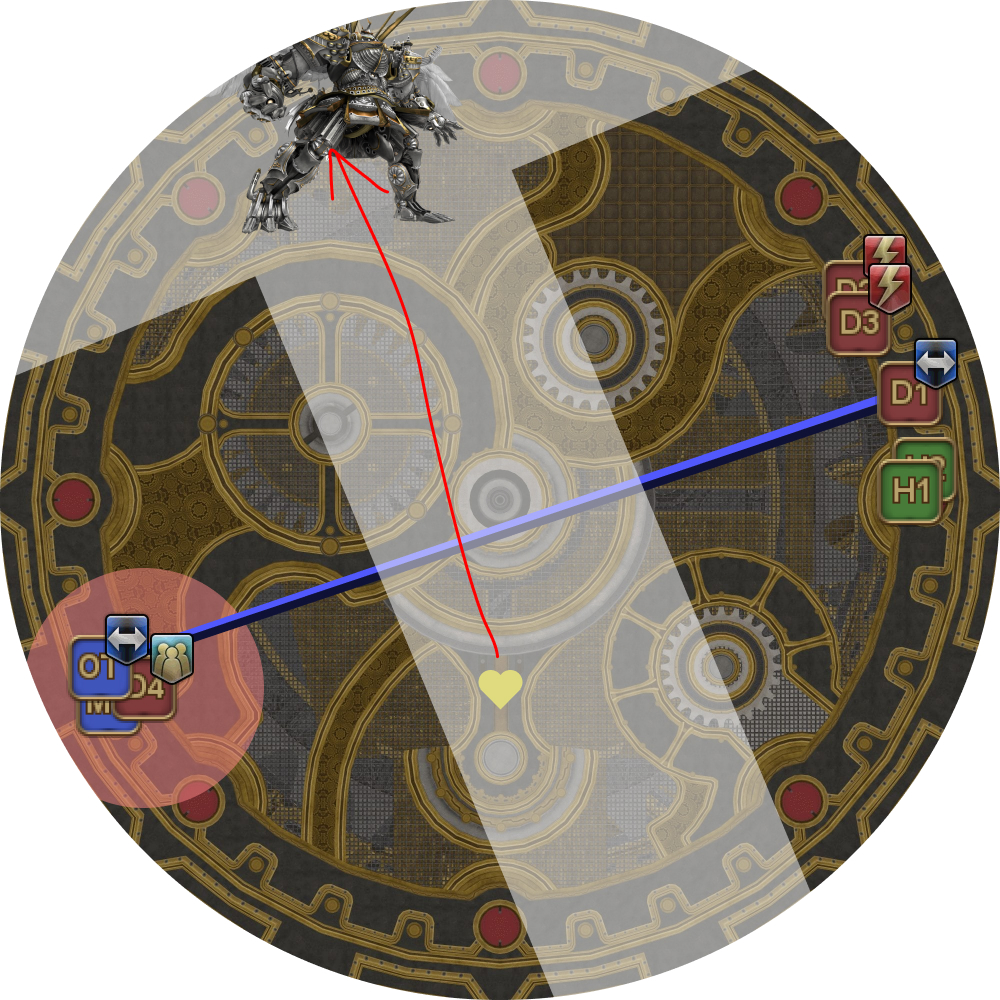
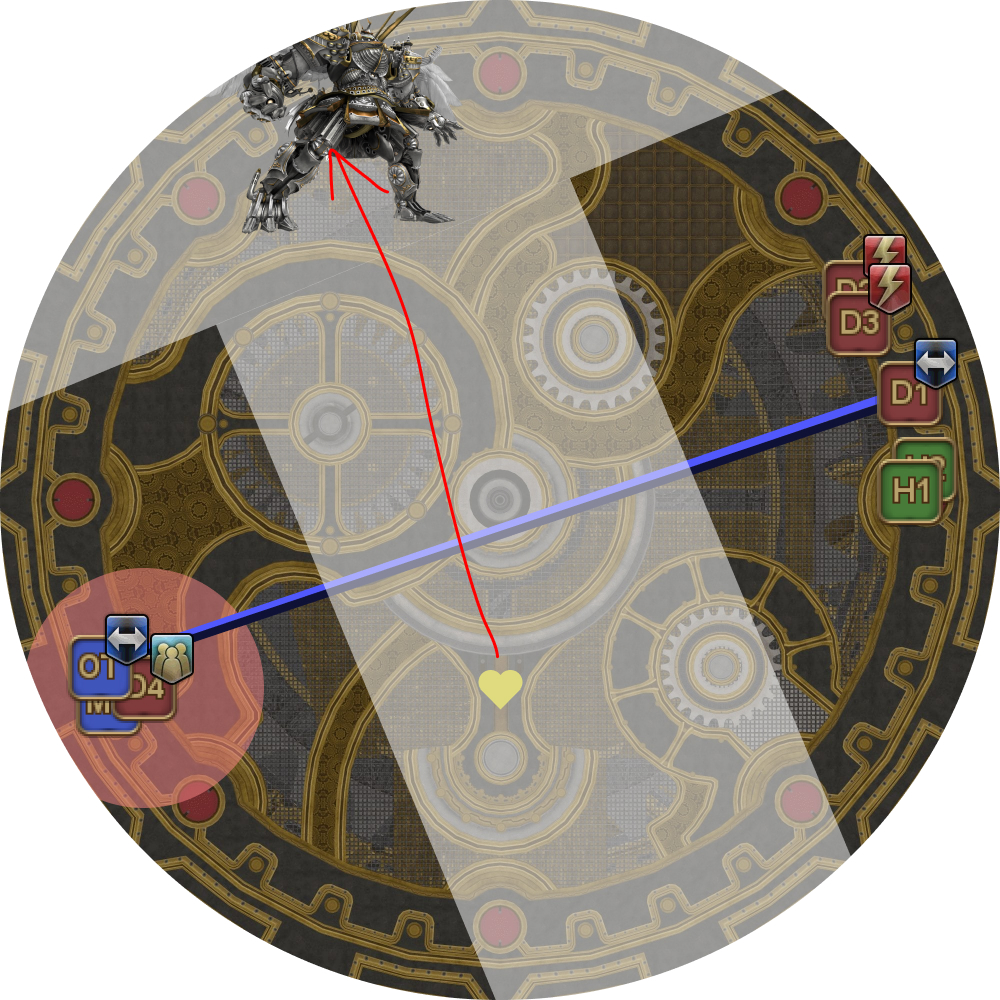
Adding Perfect Alex

Changed region(s): [[0.0, 0.279, 0.558, 1.0], [0.496, 0.062, 0.868, 0.899]]

diff --git a/ultimates/tea/en/05_perfect_alex.md b/ultimates/tea/en/05_perfect_alex.md
@@ -1,0 +1,53 @@
+## Perfect Alexander
+
+
+<table>
+  <tr>
+    <td><b>Forced March:</b><ul><li><b>Light Beacon:</b> West</li><li><b>Dark Beacon:</b> East</li><li><b>Everyone else:</b> Just west of the Dark Beacon</li></ul></td>
+	<td><img src="../images/perfect_alex/forced_march_01.jpg"></td>
+  </tr>
+  <tr>
+    <td><b>Stacks:</b><ul><li><b>West:</b> H1 > D3 > D1 > MT</li><li><b>East:</b> H2 > D4 > D2 > ST</li></ul><em>(Essentially, fix healer positions)</em></td>
+	<td><img src="../images/perfect_alex/forced_march_02.jpg"></td>
+  </tr>
+</table>
+
+## Fate Calibration Alpha
+
+<table>
+  <tr>
+    <td><b>Fate Calibration Alpha:</b><ul><li><b>Shared Sentence:</b> Left</li><li><b>Nothing:</b> Left</li><li><b>Aggravated Assault:</b> Right</li></ul></td>
+	<td><img src="../images/perfect_alex/fate_calibration_alpha.jpg"></td>
+  </tr>
+</table>
+
+After Fate Calibration Alpha, Perfect Alex will cast the first Ordained Capital Punishment, which will be shared between both tanks (ST Provokes to take hate).
+
+## Fate Calibration Beta
+
+<table>
+  <tr>
+    <td><b>1. Initial positions</b><ul><li><b>Light Beacon:</b> Slightly west of North (NNW)</li></ul><li><b>Dark:</b><ul><li><b>Beacon:</b> East</li><li><b>Red/Green tether:</b> Slightly NW of the Dark Beacon</b></li><li><b>No debuff:</b> Slightly W of the Dark Beacon</li><li><b>Blue tether:</b> Slightly SW of the Dark Beacon</li></ul></td>
+	<td><img src="../images/perfect_alex/fate_calibration_beta_01.jpg"></td>
+  </tr>
+  <tr>
+    <td><b>2.</b> Forced March resolves.<ul><li><b>Light players + Dark with red/green:</b> Stack together north</li><li><b>Dark players (except red/green tether):</b> Move to the edge of the arena.</td>
+	<td><img src="../images/perfect_alex/fate_calibration_beta_02.jpg"></td>
+  </tr>
+  <tr>
+    <td><b>3.</b> Light Shared Sentence and Super Jump resolves.</td>
+	<td><img src="../images/perfect_alex/fate_calibration_beta_03.jpg"></td>
+  </tr>
+  <tr>
+    <td><p><b>4.</b>Stack/Spread.</p><p>If Stacks:</p><ul><li><b>Light players:</b> Stack around mid</li><li><b>Dark players:</b> Stack south</li></ul></td>
+	<td><img src="../images/perfect_alex/fate_calibration_beta_04.jpg"></td>
+  </tr>
+  <tr>
+    <td><b>5.</b> Radiant Sacrament resolves.</td>
+	<td><img src="../images/perfect_alex/fate_calibration_beta_05.jpg"></td>
+  </tr>
+</table>
+
+After Fate Calibration Alpha, Perfect Alex will cast the second Ordained Capital Punishment, which will be invulned by the ST (MT Provokes to take hate).
+
+After the first set of Exatrines, Perfect Alex will cast the third (and final) Ordained Capital Punishment, which will be invulned by the MT (ST Provokes to take hate).

diff --git a/ultimates/tea/README.md b/ultimates/tea/README.md
@@ -5,7 +5,9 @@
 - **Living Liquid:** [Modified Separations](en/01_living_liquid.md) (the "JP strat")
 - **Limit Cut:** [1211](en/02_limit_cut_1211.md) or [1256](en/02_limit_cut_1256.md)
 - **BJCC:** [Tollgate](en/03_bjcc.md) (this is my strat that I use)
-- **Wormhole:** [09STOP](https://na.finalfantasyxiv.com/lodestone/character/10898230/blog/4955109/) (Korean sim strat- this is also called "Onyxia" by NA/EU)
+- **Alexander Prime:** Alexander Prime is [more or less standard](en/04_alex_prime.md).
+  - **Wormhole:** [09STOP](https://na.finalfantasyxiv.com/lodestone/character/10898230/blog/4955109/) (Korean sim strat- this is also called "Onyxia" by NA/EU)
+- **Perfect Alexander:** Perfect Alexander is also [pretty standard](en/05_perfect_alex.md).
 
 ### BiS Notes
 
